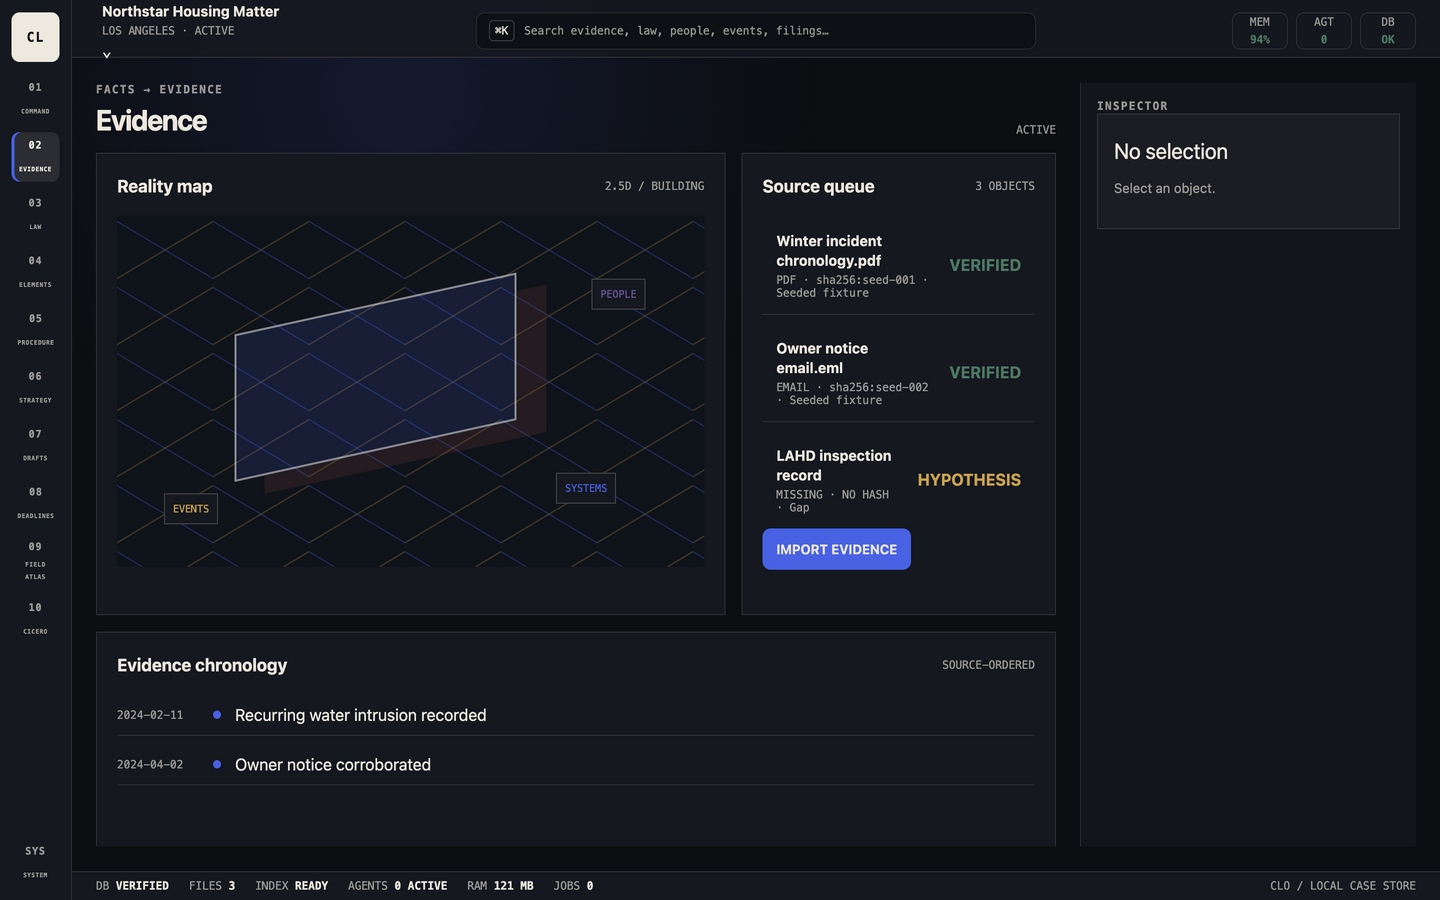
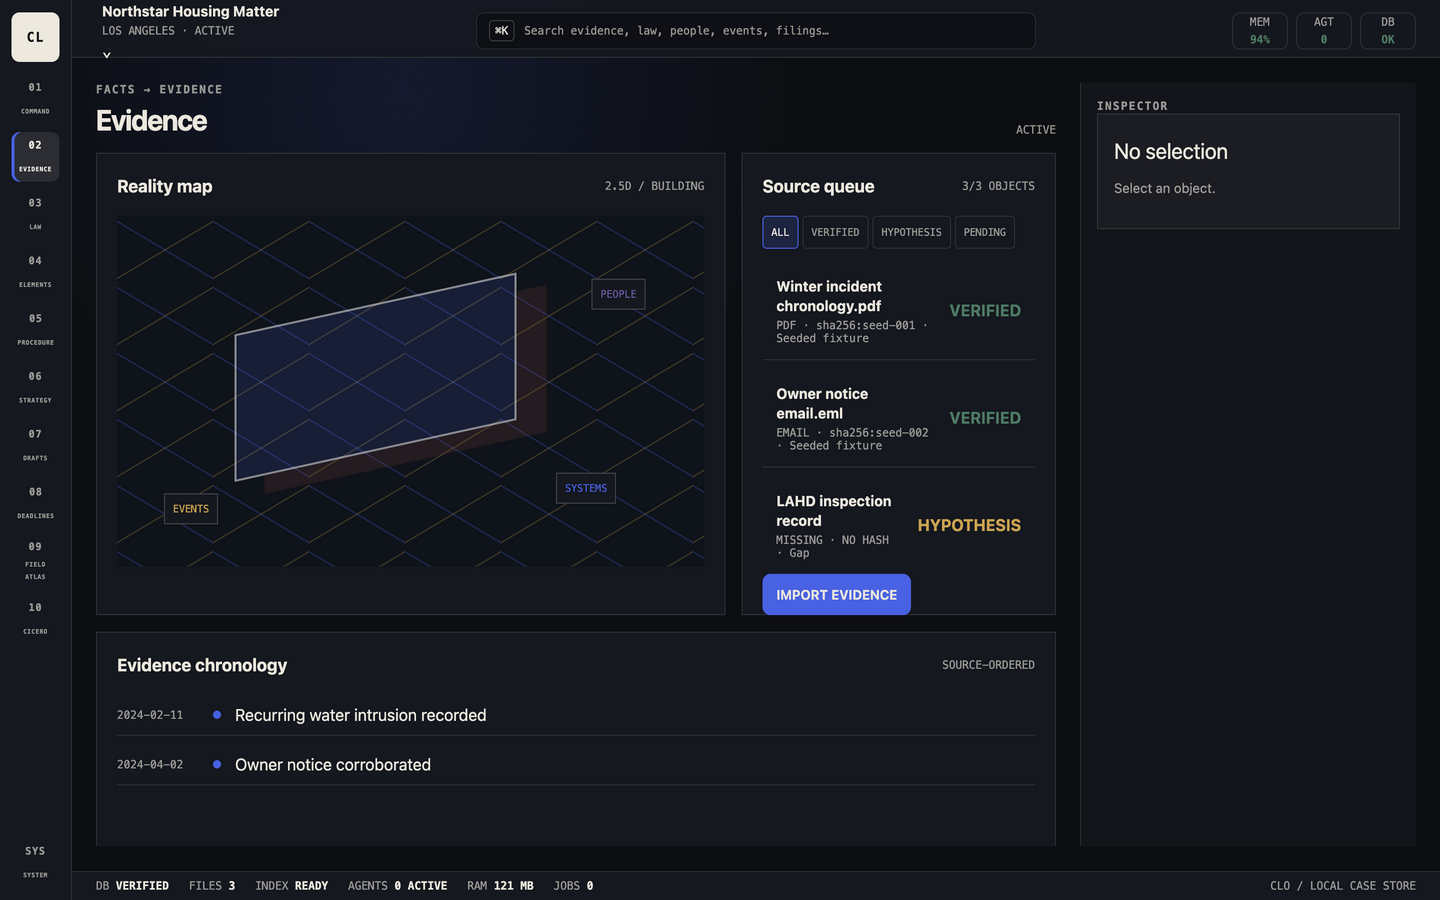
Make evidence filters and job health stateful

Changed region(s): [[0.5312, 0.2178, 0.7188, 0.6844], [0.6562, 0.3422, 0.7188, 0.3733]]

diff --git a/clo/renderer.js b/clo/renderer.js
@@ -40,17 +40,17 @@ function commandView() {
   return `${header('Command','CASE STATE')}<div class="stage-grid">${field('Case state', `<div class="band-list">${bands}</div>`, 'hero-field', `${claim.proof}% CLAIM PROOF`)}${field('Next action', `<p class="label">OBTAIN LAHD INSPECTION RECORD</p><div class="metric">HIGH</div><p class="muted">Impacts 1 incomplete legal branch</p><button class="action-button" data-case-action="open-action" data-id="${next?.id || ''}">OPEN ACTION</button>`, 'action-field', 'JUSTIFIED')}${field('Live risk', '<p class="label">LIMITATION CLOCK</p><div class="metric">14<span class="unit">DAYS</span></div><p class="muted">Affects 3 claimants</p>', 'risk-field', 'OCHRE')}${field('State changes', `<div class="timeline">${timeline}</div>`, '', 'MEANINGFUL TRANSITIONS')}</div>`
 }
 
-function evidenceView() { const rows = state.data.evidence.map((item) => `<div class="object-row" data-select="${item.id}"><div><strong>${safe(item.name)}</strong><small>${safe(item.type)} · ${safe(item.hash || 'NO HASH')} · ${safe(item.source)}</small></div><b class="${statusClass(item.status)}">${safe(item.status)}</b></div>`).join(''); return `${header('Evidence','FACTS → EVIDENCE')}<div class="stage-grid">${field('Reality map', '<div class="map-plate"><div class="building-shape"></div><div class="person-node">PEOPLE</div><div class="system-node">SYSTEMS</div><div class="event-node">EVENTS</div></div>', 'hero-field', '2.5D / BUILDING')}${field('Source queue', `<div class="object-list">${rows}</div><button class="action-button" id="import-evidence">IMPORT EVIDENCE</button>`, '', `${state.data.evidence.length} OBJECTS`)}${field('Evidence chronology', '<div class="timeline"><div class="timeline-row"><time>2024-02-11</time><i class="timeline-dot"></i><span>Recurring water intrusion recorded</span></div><div class="timeline-row"><time>2024-04-02</time><i class="timeline-dot"></i><span>Owner notice corroborated</span></div></div>', 'wide-field', 'SOURCE-ORDERED')}</div>` }
+function evidenceView() { const filter = state.evidenceFilter || 'ALL'; const visible = state.data.evidence.filter((item) => filter === 'ALL' || item.status === filter); const rows = visible.map((item) => `<div class="object-row" data-select="${item.id}"><div><strong>${safe(item.name)}</strong><small>${safe(item.type)} · ${safe(item.hash || 'NO HASH')} · ${safe(item.source)}</small></div><b class="${statusClass(item.status)}">${safe(item.status)}</b></div>`).join(''); return `${header('Evidence','FACTS → EVIDENCE')}<div class="stage-grid">${field('Reality map', '<div class="map-plate"><div class="building-shape"></div><div class="person-node">PEOPLE</div><div class="system-node">SYSTEMS</div><div class="event-node">EVENTS</div></div>', 'hero-field', '2.5D / BUILDING')}${field('Source queue', `<div class="filter-row">${['ALL', 'VERIFIED', 'HYPOTHESIS', 'PENDING'].map((item) => `<button class="filter-button ${filter === item ? 'active' : ''}" data-evidence-filter="${item}">${item}</button>`).join('')}</div><div class="object-list">${rows || '<p class="muted">No evidence matches this filter.</p>'}</div><button class="action-button" id="import-evidence">IMPORT EVIDENCE</button>`, '', `${visible.length}/${state.data.evidence.length} OBJECTS`)}${field('Evidence chronology', '<div class="timeline"><div class="timeline-row"><time>2024-02-11</time><i class="timeline-dot"></i><span>Recurring water intrusion recorded</span></div><div class="timeline-row"><time>2024-04-02</time><i class="timeline-dot"></i><span>Owner notice corroborated</span></div></div>', 'wide-field', 'SOURCE-ORDERED')}</div>` }
 function lawView() { const laws = state.data.law.map((item) => `<div class="object-row" data-select="${item.id}"><div><strong>${safe(item.title)}</strong><small>${safe(item.jurisdiction)} · ${safe(item.proposition || 'No proposition')}</small></div><b class="${statusClass(item.status)}">${safe(item.status)}</b></div>`).join(''); return `${header('Law','AUTHORITY')}<div class="stage-grid">${field('Authority tree', '<div class="object-list"><div class="object-row"><strong>FEDERAL</strong><small>CALIFORNIA · LOS ANGELES · ORDERS · CASES</small></div><div class="object-row"><strong>CALIFORNIA</strong><small>STATUTES · REGULATIONS · CASES</small></div><div class="object-row"><strong>LOS ANGELES</strong><small>LOCAL RULES · INSPECTIONS</small></div></div>', 'hero-field', 'HIERARCHY')}${field('Source text', `<div class="paper"><p class="label">CIVIL CODE §1942.4</p><p>A landlord may not collect rent or issue certain notices while specified conditions remain unresolved.</p><button class="utility-button" data-case-action="create-proposition">CREATE PROPOSITION</button></div>`, '', 'VERIFIED SOURCE')}${field('Proposition chain', `<div class="proposition-list">${laws}</div><div class="button-row"><button class="utility-button" data-case-action="verify-source">VERIFY SOURCE</button><button class="utility-button" data-case-action="link-element">LINK ELEMENT</button></div>`, 'wide-field', 'LINKED AUTHORITY')}</div>` }
 function elementsView() { const rows = state.data.elements.map((item) => `<div class="object-row source-rail" data-select="${item.id}"><div><strong>${safe(item.title)}</strong><small>${safe(item.missing || 'All required evidence linked')}</small></div><b class="${statusClass(item.status)}">${item.proof}%</b></div>`).join(''); const validation = state.data.drafts[0]?.validation; return `${header('Elements','LEGAL COMPLETENESS')}<div class="stage-grid">${field('Claim', `<p class="label">HABITABILITY / NOTICE THEORY</p><div class="metric">${state.data.claims[0].proof}%</div><p class="muted">${state.data.claims[0].status}</p>`, 'hero-field', 'CURRENT CLAIM')}${field('Build pipeline', '<div class="pipeline"><b>RELIEF</b><b>PROCEDURE</b><b class="active">ELEMENTS</b><b>FACTS</b><b>AUTHORITIES</b><b>DEFENSE</b><b>DRAFT</b><b>VALIDATE</b><b>EXPORT</b></div>', '', validation ? `VALIDATION ${validation}` : '8 / 9')}${field('Element proof', `<div class="object-list">${rows}</div><div class="button-row"><button class="utility-button" data-case-action="build-section">BUILD SECTION</button><button class="utility-button" data-case-action="verify-citations">VERIFY CITATIONS</button><button class="utility-button" data-case-action="validate-filing">VALIDATE FILING</button>${validation === 'PASSED' ? '<button class="action-button" data-case-action="export-filing">EXPORT FILING</button>' : ''}</div>`, 'wide-field', 'PROVENANCE')}</div>` }
 function procedureView() { const rows = state.data.procedure.map((item) => `<div class="object-row" data-select="${item.id}"><div><strong>${safe(item.title)}</strong><small>${safe(item.date)} · ${safe(item.source)}</small></div><b class="${statusClass(item.status)}">${safe(item.status)}</b></div>`).join(''); return `${header('Procedure','PROCEDURAL STATE')}<div class="stage-grid">${field('Current posture', '<p class="label">SERVICE PENDING</p><div class="metric">2</div><p class="muted">derived procedural clocks</p>', 'hero-field', 'ACTIVE')}${field('Docket chronology', `<div class="object-list">${rows}</div>`, '', 'AUDITABLE')}${field('Dependencies', '<div class="timeline"><div class="timeline-row"><time>CLAIM</time><i class="timeline-dot"></i><span>Element completeness affects responsive filing window</span></div><div class="timeline-row"><time>EVIDENCE</time><i class="timeline-dot"></i><span>Inspection record remains an open gap</span></div></div>', 'wide-field', 'LINKED STATE')}</div>` }
 function strategyView() { const make = (title, data) => field(title, `<p class="label">SOURCE UNIVERSE</p><p>${safe(data.sourceUniverse)}</p><div class="metric">${Math.round(data.confidence * 100)}%</div><p class="muted">confidence</p><div class="object-list">${data.observations.map((item) => `<div class="object-row"><strong>${safe(item)}</strong><small>ANALYTICAL INFERENCE</small></div>`).join('')}</div>`); return `${header('Strategy','ANALYSIS')}<div class="stage-grid">${make('Judge', state.data.strategy.judge)}${make('Opponent', state.data.strategy.opponent)}${field('Uncertainty', '<p class="label state-inference">INFERENCE IS NOT FACT</p><p class="muted">Every analytical statement remains linked to a declared source universe and confidence level.</p>', 'wide-field', 'VIOLET')}</div>` }
 function draftsView() { const draft = state.data.drafts[0]; return `${header('Drafts','PROVENANCE')}<div class="stage-grid">${field('Draft list', `<div class="object-list"><div class="object-row" data-select="${draft.id}"><div><strong>${safe(draft.title)}</strong><small>${draft.status} · ${draft.paragraphs.length} paragraph</small></div><b class="${statusClass(draft.validation || draft.status)}">${safe(draft.validation || draft.status)}</b></div></div>`, 'hero-field', 'LOCAL')}${field('Actions', '<button class="action-button" data-case-action="build-section">BUILD SECTION</button><div class="button-row"><button class="utility-button" data-case-action="verify-citations">VERIFY CITATIONS</button><button class="utility-button" data-case-action="validate-filing">VALIDATE FILING</button></div>', '', 'ONE PRIMARY')}${field('Paragraph provenance', `<div class="object-list">${draft.paragraphs.map((p) => `<div class="object-row source-rail" data-select="${p.id}"><div><strong>${safe(p.text)}</strong><small>${p.provenance.join(' · ')}</small></div><b class="${statusClass(p.status)}">${p.status}</b></div>`).join('')}</div>`, 'wide-field', 'FACTS · LAW · INFERENCE')}</div>` }
 function deadlinesView() { const deadlines = state.data.deadlines?.length ? state.data.deadlines : state.data.procedure; return `${header('Deadlines','PROCEDURAL CLOCKS')}<div class="stage-grid">${field('Time field', `<div class="time-field"><div class="today-line"><span>TODAY</span></div>${deadlines.map((item, index) => `<div class="deadline-bar ${index % 2 ? 'second' : 'first'}" data-select="${item.id}"><span>${safe(item.date)}</span><b>${safe(item.title)}</b></div>`).join('')}</div>`, 'hero-field', `${deadlines.length} DERIVED`) }${field('Selected derivation', '<dl class="kv"><dt>Elements</dt><dd>Condition theory incomplete</dd><dt>Procedure</dt><dd>Service deadline pending</dd><dt>Drafts</dt><dd>Verified section available</dd><dt>Strategy</dt><dd>Confidence affects review posture</dd></dl><button class="utility-button" data-case-action="derive-deadlines">RECALCULATE</button>', '', 'AUDITABLE')}${field('Open clocks', `<div class="object-list">${deadlines.map((item) => `<div class="object-row" data-select="${item.id}"><div><strong>${safe(item.title)}</strong><small>${safe(item.date)} · ${safe(item.source)}</small></div><b class="state-pending">${safe(item.status)}</b></div>`).join('')}</div>`, 'wide-field', 'SOURCE-LINKED')}</div>` }
-function systemView() { return `${header('System','HEALTH')}<div class="stage-grid">${field('Database', '<div class="metric state-complete">OK</div><p class="muted">Local case store / version 1</p>', 'hero-field', 'VERIFIED')}${field('Memory', '<div class="metric">94%</div><p class="muted">Working set within target</p>', '', 'GOVERNED')}${field('Audit', `<div class="timeline">${state.data.audit.slice(-5).reverse().map((item) => `<div class="timeline-row"><time>${item.at.slice(0,10)}</time><i class="timeline-dot"></i><span>${safe(item.action)}</span></div>`).join('')}</div>`, 'wide-field', 'LOCAL HISTORY')}</div>` }
+function systemView() { return `${header('System','HEALTH')}<div class="stage-grid">${field('Database', '<div class="metric state-complete">OK</div><p class="muted">Local SQLite case store / version 2</p>', 'hero-field', 'VERIFIED')}${field('Memory', `<div class="metric">${state.health?.ram ? Math.round(state.health.ram / 1024 / 1024) : '--'}<span class="unit">MB</span></div><p class="muted">Working set within target</p>`, '', 'GOVERNED')}${field('Audit', `<div class="timeline">${state.data.audit.slice(-5).reverse().map((item) => `<div class="timeline-row"><time>${item.at.slice(0,10)}</time><i class="timeline-dot"></i><span>${safe(item.action)}</span></div>`).join('')}</div>`, 'wide-field', 'LOCAL HISTORY')}</div>` }
 function secondaryView(kind) { const target = kind === 'field-atlas' ? '../index.html' : '../cicero/index.html'; return `${header(kind === 'field-atlas' ? 'Field Atlas' : 'Cicero','SECONDARY APP')}<iframe class="iframe-field" src="${target}" title="${kind}"></iframe>` }
 
-function render() { if (!state.data) return; const views = { command: commandView, evidence: evidenceView, law: lawView, elements: elementsView, procedure: procedureView, strategy: strategyView, drafts: draftsView, deadlines: deadlinesView, system: systemView }; stage.innerHTML = views[state.route] ? views[state.route]() : secondaryView(state.route); document.querySelectorAll('[data-route]').forEach((button) => button.classList.toggle('active', button.dataset.route === state.route)); document.querySelectorAll('[data-select]').forEach((node) => node.addEventListener('click', () => setSelected(node.dataset.select))); document.querySelectorAll('[data-case-action]').forEach((button) => button.addEventListener('click', () => runAction(button.dataset.caseAction, button.dataset.id))); const importButton = el('#import-evidence'); if (importButton) importButton.addEventListener('click', openImport); renderInspector() }
+function render() { if (!state.data) return; const views = { command: commandView, evidence: evidenceView, law: lawView, elements: elementsView, procedure: procedureView, strategy: strategyView, drafts: draftsView, deadlines: deadlinesView, system: systemView }; stage.innerHTML = views[state.route] ? views[state.route]() : secondaryView(state.route); document.querySelectorAll('[data-route]').forEach((button) => button.classList.toggle('active', button.dataset.route === state.route)); document.querySelectorAll('[data-select]').forEach((node) => node.addEventListener('click', () => setSelected(node.dataset.select))); document.querySelectorAll('[data-case-action]').forEach((button) => button.addEventListener('click', () => runAction(button.dataset.caseAction, button.dataset.id))); document.querySelectorAll('[data-evidence-filter]').forEach((button) => button.addEventListener('click', () => { state.evidenceFilter = button.dataset.evidenceFilter; render() })); const importButton = el('#import-evidence'); if (importButton) importButton.addEventListener('click', openImport); renderInspector() }
 
 async function runAction(action, objectId) {
   if (!window.clo?.action) return
@@ -84,5 +84,5 @@ async function openSearch() {
   input.addEventListener('input', update); el('#close-search').addEventListener('click', () => { drawer.hidden = true }); input.focus()
 }
 
-const boot = async () => { state.data = await window.clo.getState(); if (window.clo.deriveDeadlines) state.data = await window.clo.deriveDeadlines(); const health = await window.clo.health(); el('#file-count').textContent = String(state.data.evidence.length); el('#ram').textContent = `${Math.round(health.ram / 1024 / 1024)} MB`; render() }
+const boot = async () => { state.data = await window.clo.getState(); if (window.clo.deriveDeadlines) state.data = await window.clo.deriveDeadlines(); const health = await window.clo.health(); state.health = health; el('#file-count').textContent = String(state.data.evidence.length); el('#ram').textContent = `${Math.round(health.ram / 1024 / 1024)} MB`; el('#agent-count').textContent = String(health.agents); el('#agent-status').textContent = `${health.agents} ACTIVE`; el('#job-count').textContent = String(health.jobs); render() }
 boot()

diff --git a/clo/styles.css b/clo/styles.css
@@ -36,6 +36,7 @@ button { color: inherit; border: 0; cursor: pointer; }
 .stage-grid { display: grid; grid-template-columns: 2fr 1fr; grid-template-rows: 448px 224px; gap: 16px; }.field, .paper { position: relative; min-width: 0; min-height: 0; padding: 20px; border: 1px solid var(--line); background: var(--ink-1); }.paper { background: var(--bone); color: var(--ink-0); }.hero-field { grid-row: span 1; }.wide-field { grid-column: 1 / -1; }.field-header { display: flex; align-items: center; justify-content: space-between; margin-bottom: 18px; }.field-title { margin: 0; font-size: 17px; line-height: 22px; }.field-meta { color: var(--muted); font: 11px var(--mono); }.band-list, .timeline, .object-list, .proposition-list { display: grid; gap: 8px; }.band { display: grid; grid-template-columns: 1fr 100px 80px; gap: 12px; align-items: center; padding: 14px; border-left: 4px solid var(--cobalt); background: rgba(238,233,222,.05); cursor: pointer; }.band:hover, .object-row:hover { background: rgba(238,233,222,.1); }.band h3, .object-row strong { margin: 0; font-size: 14px; }.band small, .object-row small { display: block; margin-top: 4px; color: var(--muted); font: 11px var(--mono); }.progress { height: 4px; background: rgba(238,233,222,.12); }.progress i { display: block; height: 100%; background: var(--viridian); }.state-complete { color: var(--viridian); }.state-pending { color: var(--ochre); }.state-danger { color: var(--oxide); }.state-inference { color: var(--violet); }.object-row { display: grid; grid-template-columns: 1fr auto; gap: 16px; align-items: center; padding: 14px; border-bottom: 1px solid var(--line); cursor: pointer; }.object-row:last-child { border-bottom: 0; }.timeline-row { display: grid; grid-template-columns: 84px 10px 1fr; gap: 12px; align-items: center; padding: 10px 0; border-bottom: 1px solid var(--line); }.timeline-row time { color: var(--muted); font: 11px var(--mono); }.timeline-dot { width: 8px; height: 8px; border-radius: 50%; background: var(--cobalt); }.action-field { background: linear-gradient(155deg, rgba(63,125,99,.23), var(--ink-1)); }.risk-field { background: linear-gradient(155deg, rgba(213,163,62,.18), var(--ink-1)); }.metric { margin: 24px 0 8px; font-size: 44px; line-height: 44px; letter-spacing: -.07em; }.action-button, .utility-button { min-height: 40px; padding: 0 14px; border-radius: 8px; background: var(--cobalt); font-size: 13px; font-weight: 650; }.utility-button { background: transparent; border: 1px solid var(--line-strong); }.button-row { display: flex; gap: 8px; margin-top: 16px; }.inspector-card { padding: 16px; border: 1px solid var(--line); background: rgba(238,233,222,.04); }.inspector-name { margin: 6px 0 12px; font-size: 21px; line-height: 26px; }.inspector-tabs { display: grid; grid-template-columns: repeat(4, 1fr); gap: 4px; margin: 16px 0; }.inspector-tabs button { min-height: 36px; background: transparent; color: var(--muted); font: 10px var(--mono); }.inspector-tabs button.active { color: var(--bone); background: rgba(238,233,222,.1); }.kv { display: grid; grid-template-columns: 90px 1fr; gap: 8px; padding: 10px 0; border-bottom: 1px solid var(--line); }.kv dt { color: var(--muted); font: 10px var(--mono); text-transform: uppercase; }.kv dd { margin: 0; font-size: 12px; line-height: 16px; }.source-rail { padding-left: 12px; border-left: 4px solid var(--cobalt); }.drawer { position: fixed; z-index: 10; top: 56px; right: 0; bottom: 28px; width: 480px; padding: 24px; border-left: 1px solid var(--line-strong); background: var(--ink-1); box-shadow: -12px 0 32px rgba(0,0,0,.24); }.drawer[hidden] { display: none; }.iframe-field { width: 100%; min-height: 720px; border: 0; background: var(--ink-1); }
 @media (max-width: 1220px) { .topbar { grid-template-columns: 240px minmax(300px, 1fr) 220px; }.body { grid-template-columns: minmax(0, 1fr) 300px; }.stage-grid { grid-template-rows: 400px 200px; } }
 .search-input { width: 100%; height: 44px; margin: 16px 0; padding: 0 12px; border: 1px solid var(--line-strong); border-radius: 8px; outline: none; background: var(--ink-0); color: var(--bone); }.search-input:focus { border-color: var(--cobalt); }.search-result { width: 100%; text-align: left; }
+.filter-row { display: flex; flex-wrap: wrap; gap: 4px; margin-bottom: 12px; }.filter-button { min-height: 32px; padding: 0 8px; border: 1px solid var(--line); border-radius: 4px; background: transparent; color: var(--muted); font: 10px var(--mono); }.filter-button.active { border-color: var(--cobalt); color: var(--bone); background: rgba(66,99,235,.16); }
 @media (max-width: 980px) { .body { grid-template-columns: 1fr; padding: 12px; }.inspector { display: none; }.top-controls, .matter-switch { display: none; }.topbar { display: flex; padding: 0 12px; }.search-command { width: 100%; min-width: 0; overflow: hidden; white-space: nowrap; text-overflow: ellipsis; }.statusbar { gap: 10px; overflow: hidden; white-space: nowrap; }.stage-grid { grid-template-columns: 1fr; grid-template-rows: auto; }.wide-field, .hero-field { grid-column: auto; grid-row: auto; min-height: 260px; }.band { grid-template-columns: 1fr; gap: 8px; }.band > strong { justify-self: start; } }
 .muted { color: var(--muted); font-size: 13px; line-height: 20px; }
 .unit { margin-left: 8px; font: 11px var(--mono); letter-spacing: .08em; }

diff --git a/clo/index.html b/clo/index.html
@@ -28,14 +28,14 @@
       <header class="topbar">
         <button class="matter-switch"><strong>Northstar Housing Matter</strong><span>LOS ANGELES · ACTIVE</span>⌄</button>
         <button id="global-search" class="search-command"><span>⌘K</span>Search evidence, law, people, events, filings…</button>
-        <div class="top-controls"><span class="indicator">MEM <b>94%</b></span><span class="indicator">AGT <b>0</b></span><span class="indicator">DB <b>OK</b></span></div>
+        <div class="top-controls"><span class="indicator">MEM <b>94%</b></span><span class="indicator">AGT <b id="agent-count">0</b></span><span class="indicator">DB <b>OK</b></span></div>
       </header>
 
       <main class="body">
         <section id="stage" class="stage" aria-live="polite"></section>
         <aside id="inspector" class="inspector"></aside>
       </main>
-      <footer class="statusbar"><span>DB <b>VERIFIED</b></span><span>FILES <b id="file-count">3</b></span><span>INDEX <b>READY</b></span><span>AGENTS <b>0 ACTIVE</b></span><span>RAM <b id="ram">--</b></span><span>JOBS <b>0</b></span><span class="status-spacer"></span><span>CLO / LOCAL CASE STORE</span></footer>
+      <footer class="statusbar"><span>DB <b>VERIFIED</b></span><span>FILES <b id="file-count">3</b></span><span>INDEX <b>READY</b></span><span>AGENTS <b id="agent-status">0 ACTIVE</b></span><span>RAM <b id="ram">--</b></span><span>JOBS <b id="job-count">0</b></span><span class="status-spacer"></span><span>CLO / LOCAL CASE STORE</span></footer>
     </div>
     <div id="drawer" class="drawer" hidden></div>
     <script type="module" src="./renderer.js"></script>

diff --git a/docs/CLO-STATUS.md b/docs/CLO-STATUS.md
@@ -6,13 +6,13 @@ This ledger is intentionally conservative. It records what is implemented and ve
 
 | Area | Passed | Total | Notes |
 |---|---:|---:|---|
-| Architecture and security | 14 | 15 | Electron shell, preload boundary, migration normalization, bounded action IPC, search/link/deadline IPC, SQLite persistence path, and source tests exist; background jobs and full IPC tests remain |
+| Architecture and security | 14 | 15 | Electron shell, preload boundary, migration normalization, bounded action IPC, SQLite persistence path, stateful job health, capture runner, and source tests exist; true worker isolation remains |
 | Data integrity and provenance | 17 | 20 | SHA-256, staging, commit, extracted text, audit, duplicate detection, typed evidence links, paragraph provenance, and context-only import are verified; SQL repository remains |
-| Functional surfaces | 21 | 25 | Primary views, import flow, proposition/build/validate/export-gate actions, object search, derived deadlines, and secondary navigation exist; several domain workflows remain fixtures |
+| Functional surfaces | 22 | 25 | Primary views, import flow, proposition/build/validate/export-gate actions, object search, derived deadlines, Evidence filters, stateful job status, and secondary navigation exist; several domain workflows remain fixtures |
 | Visual constitution | 18 | 25 | Shell geometry tokens, palette, responsive rules, 1440px/1024px/mobile captures, and corrected mobile fallback are verified; computed geometry and color-area audit remain |
 | Accessibility, interaction, performance | 7 | 10 | Search/Escape, route shortcuts, visible focus/select states, non-chat search, and mobile hierarchy exist; list navigation and benchmarks remain |
 | Verification, documentation, delivery | 5 | 5 | Store and constitution tests, rubric, README, background Electron smoke launch, capture runner, and 10 generated route screenshots exist |
-| **Total** | **85** | **100** | **B**; state-variant screenshots, performance benchmarks, and full domain integration remain |
+| **Total** | **86** | **100** | **B**; worker isolation, performance benchmarks, and full domain integration remain |
 
 ## Verified In This Repository
 
